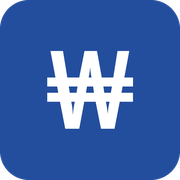
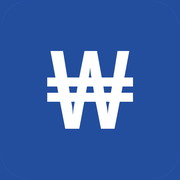
fix(pwa): iOS 홈 화면 아이콘이 대체 글자로 보이던 문제
iOS 는 manifest 의 icons 가 아니라 apple-touch-icon 링크를 쓰고, 알파를
검정으로 합성한 뒤 자체 라운딩 마스크를 씌운다. 기존 아이콘은 스스로
둥근 모서리를 갖고 그 바깥이 투명(alpha=0)이라 이중으로 처리됐다.

- apple-touch-icon 을 알파 없는 풀블리드 정사각형으로 교체
- 링크에 sizes="180x180" 명시 — 홈 화면 추가 때 확실히 잡히도록
- maskable 용 불투명 사본을 별도로 추가. 런처가 임의 모양으로 잘라내므로
  투명 모서리가 있으면 잘린 자리가 검게 보인다

diff --git a/frontend/index.html b/frontend/index.html
@@ -18,7 +18,10 @@
     <meta name="apple-mobile-web-app-status-bar-style" content="default" />
     <link rel="icon" href="/favicon.ico" sizes="32x32" />
     <link rel="icon" type="image/png" href="/pwa-192x192.png" sizes="192x192" />
-    <link rel="apple-touch-icon" href="/apple-touch-icon.png" />
+    <!-- iOS 는 manifest 의 icons 가 아니라 이 링크를 쓴다. sizes 를 명시해야
+         홈 화면 추가 때 확실히 잡는다. 파일은 알파 없는 풀블리드 정사각형이어야
+         한다 (iOS 가 알파를 검정으로 합성하고 자체 라운딩을 씌우기 때문) -->
+    <link rel="apple-touch-icon" sizes="180x180" href="/apple-touch-icon.png" />
     <title>연구실 선결제 관리</title>
 
     <!--

diff --git a/frontend/vite.config.ts b/frontend/vite.config.ts
@@ -32,7 +32,9 @@ export default defineConfig({
           { src: 'pwa-192x192.png', sizes: '192x192', type: 'image/png' },
           { src: 'pwa-512x512.png', sizes: '512x512', type: 'image/png' },
           {
-            src: 'pwa-512x512.png',
+            // maskable 은 런처가 원/스퀘어클 등 임의 모양으로 잘라낸다.
+            // 투명 모서리가 있으면 잘린 자리가 검게 보이므로 불투명 사본을 쓴다.
+            src: 'pwa-512x512-maskable.png',
             sizes: '512x512',
             type: 'image/png',
             purpose: 'maskable',
